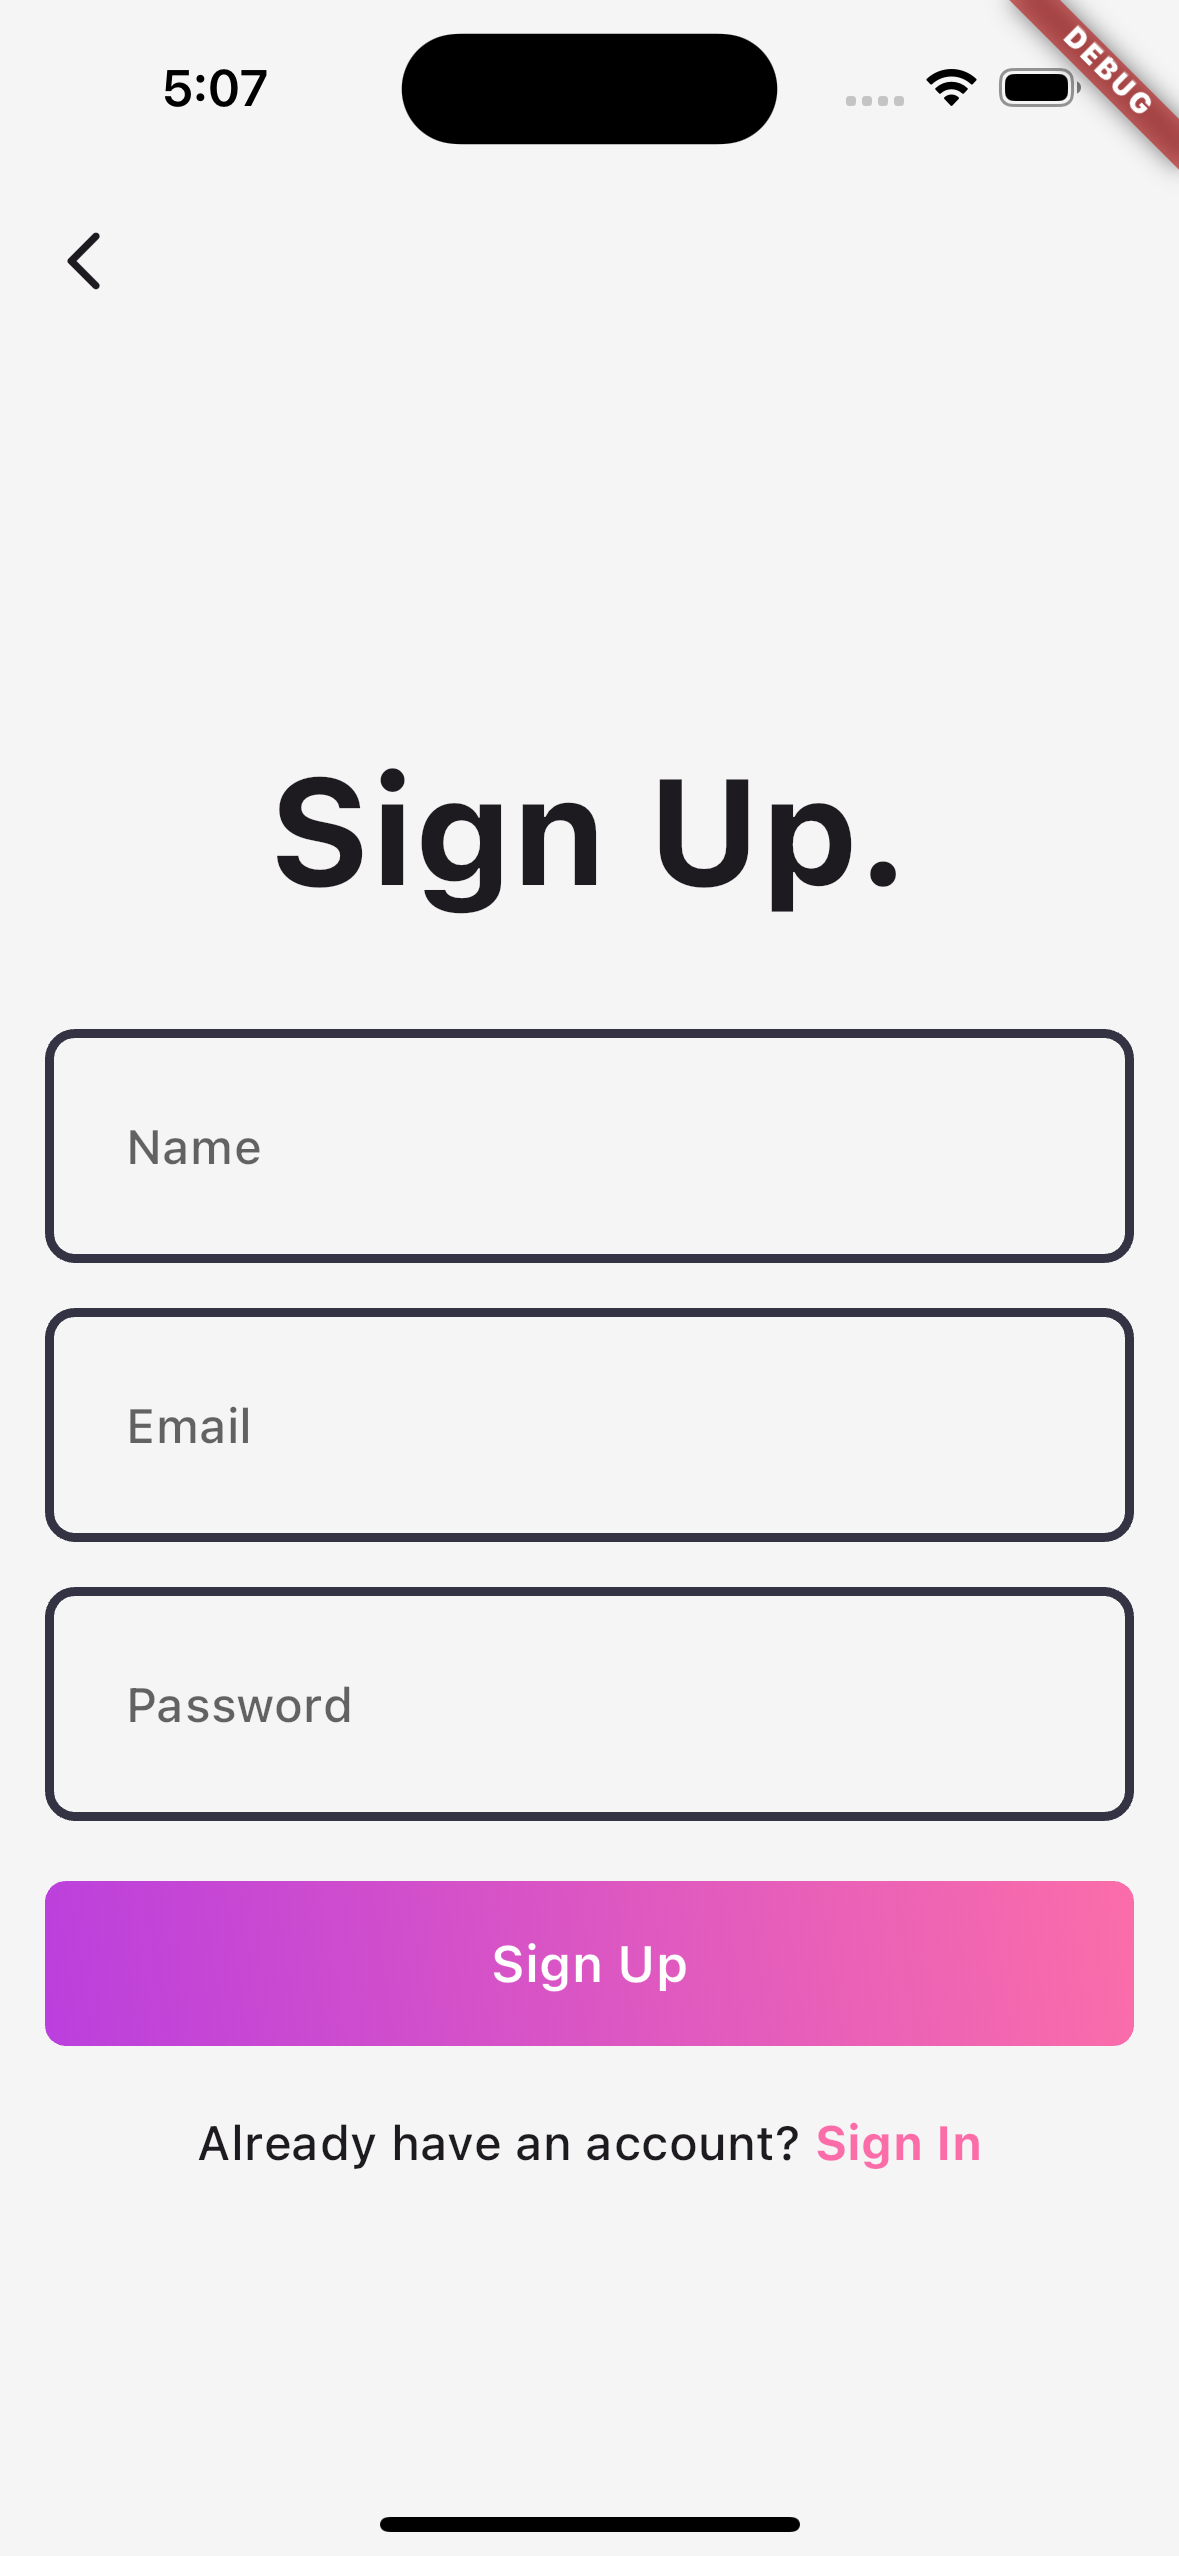
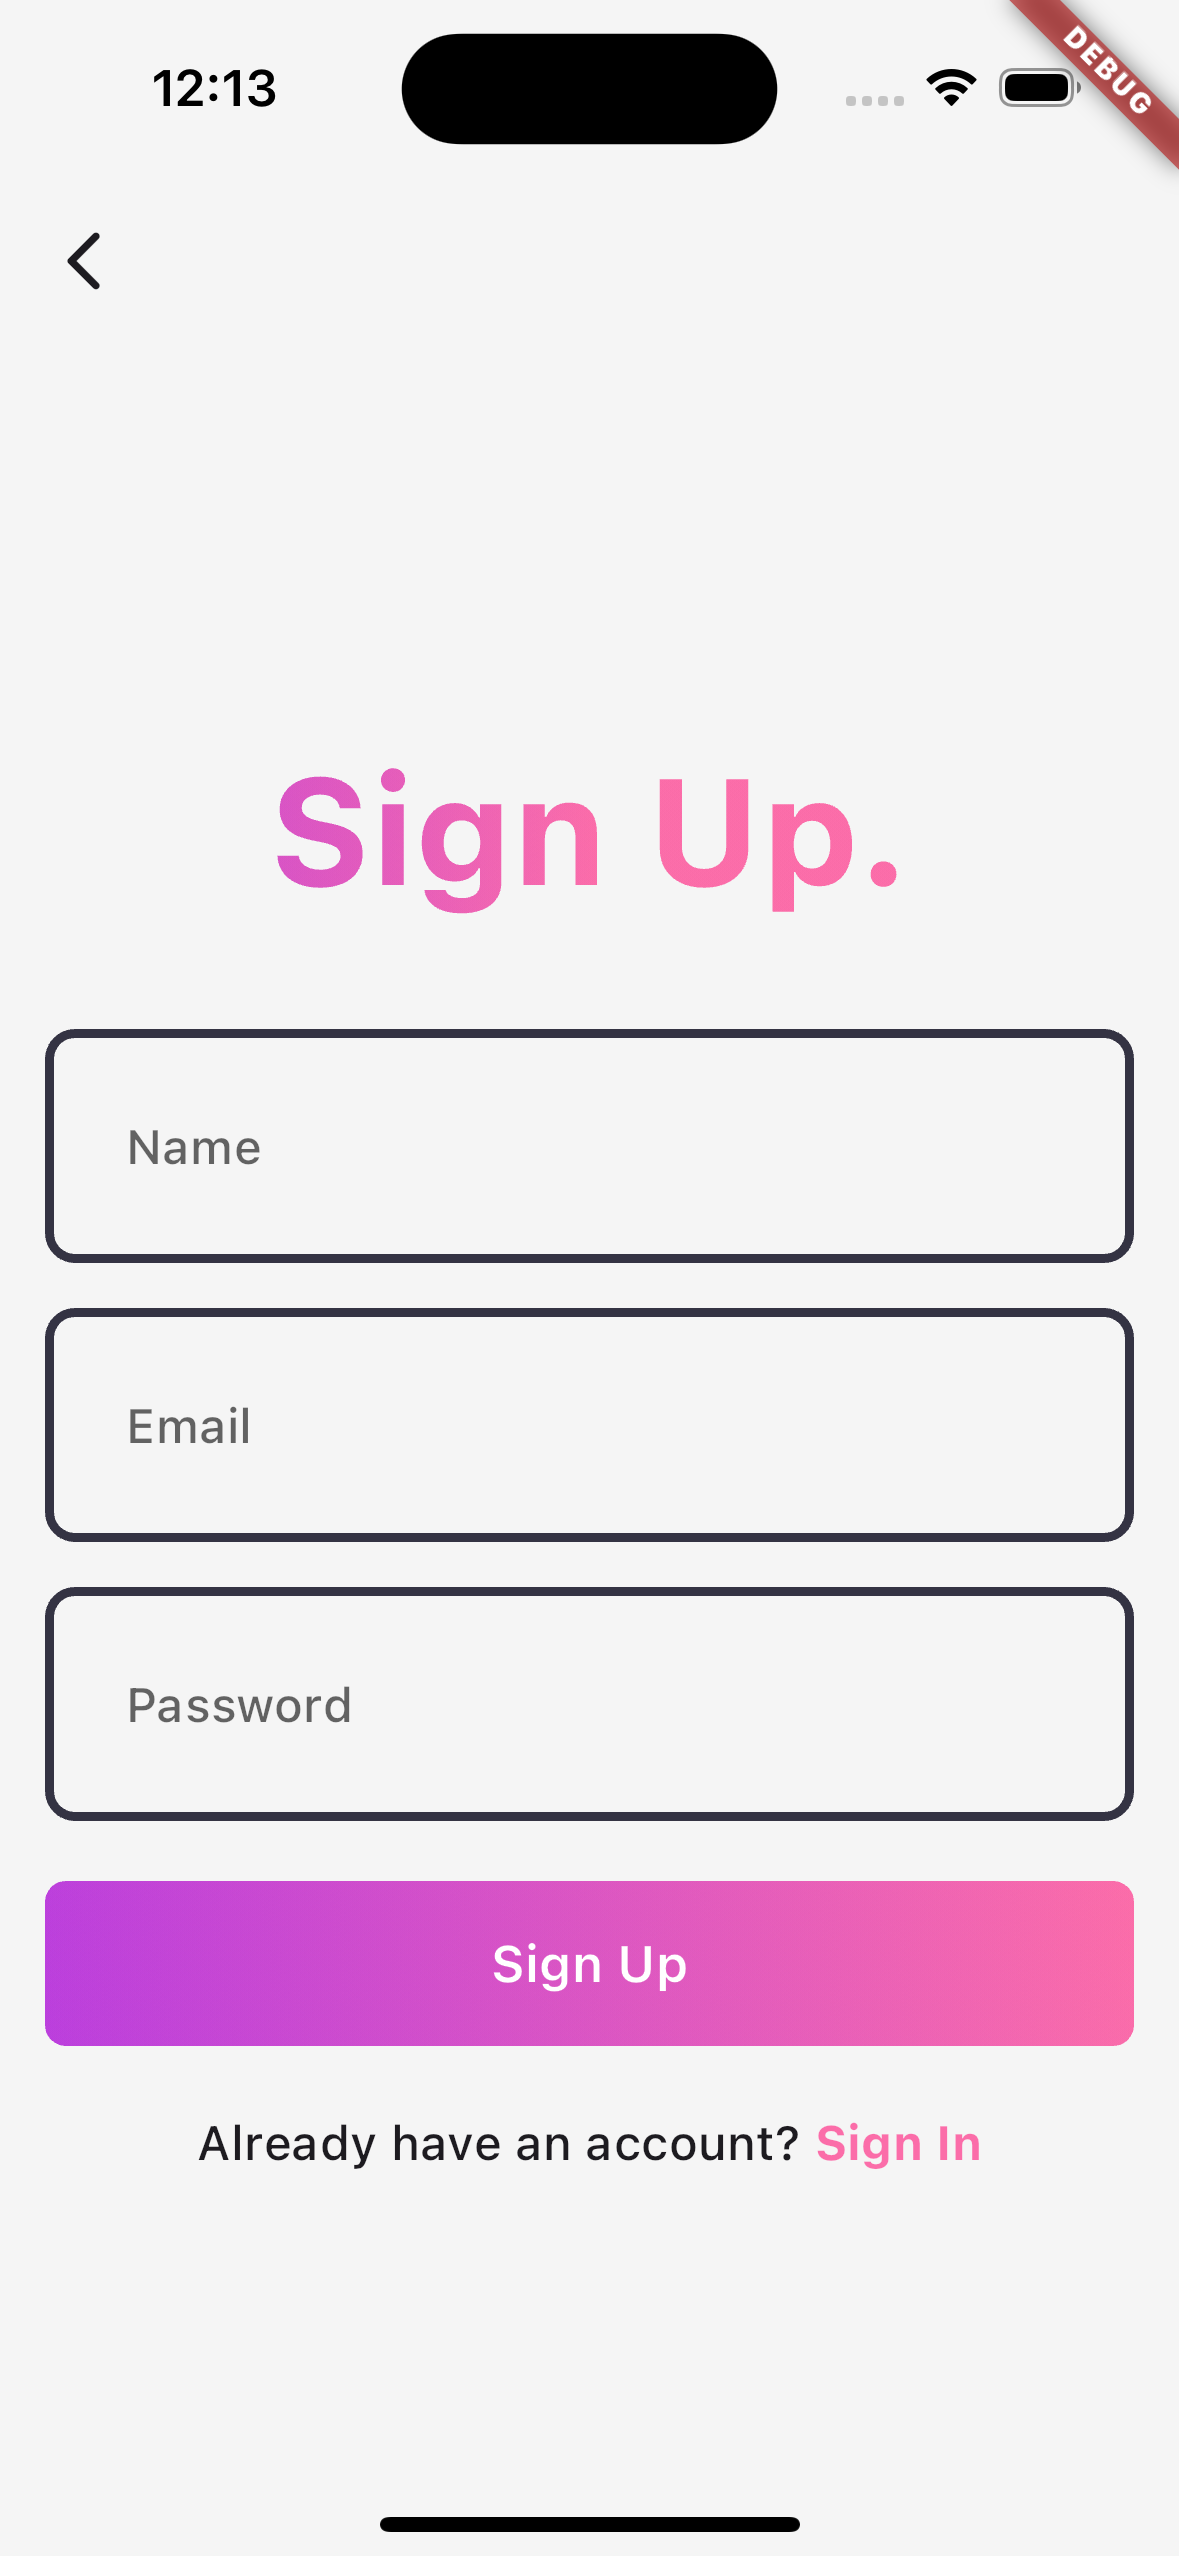
changed app theme

diff --git a/lib/features/blogs/presentation/pages/add_blog_page.dart b/lib/features/blogs/presentation/pages/add_blog_page.dart
@@ -101,15 +101,27 @@ class _AddBlogPageState extends State<AddBlogPage> {
         }
       }
     } else {
+      print('//// Update blog object \n$image');
+      // if (image == null) {
+      //   context.read<BlogBloc>().add(
+      //         BlogUpdateEvent(
+      //           title: titleController.text.trim(),
+      //           content: contentController.text.trim(),
+      //           blogId: widget.blog!.id,
+      //           topics: selectedTopics,
+      //           imageUrl: image!,
+      //         ),
+      //       );
+      // } else {
       context.read<BlogBloc>().add(
             BlogUpdateEvent(
               title: titleController.text.trim(),
               content: contentController.text.trim(),
               blogId: widget.blog!.id,
               topics: selectedTopics,
-              imageUrl: image,
             ),
           );
+      // }
     }
   }
 
@@ -261,25 +273,46 @@ class _AddBlogPageState extends State<AddBlogPage> {
                                     }
                                     setState(() {});
                                   },
-                                  child: Chip(
-                                    label: Text(
-                                      e,
-                                      style: TextStyle(
-                                        color: selectedTopics.contains(e)
-                                            ? AppPallete.whiteColor
+                                  child: Container(
+                                    decoration: BoxDecoration(
+                                        gradient: selectedTopics.contains(e)
+                                            ? const LinearGradient(
+                                                colors: [
+                                                  AppPallete.gradient1,
+                                                  AppPallete.gradient2,
+                                                ],
+                                                begin: Alignment.bottomLeft,
+                                                end: Alignment.topRight,
+                                              )
                                             : null,
+                                        // color: AppPallete.cardColor,
+                                        borderRadius: BorderRadius.circular(10),
+                                        border: !selectedTopics.contains(e)
+                                            ? Border.all(
+                                                color: AppPallete.borderColor)
+                                            : null),
+                                    child: Padding(
+                                      padding: const EdgeInsets.all(10.0)
+                                          .copyWith(top: 5, bottom: 5),
+                                      child: Text(
+                                        e,
+                                        style: TextStyle(
+                                          color: selectedTopics.contains(e)
+                                              ? AppPallete.whiteColor
+                                              : null,
+                                        ),
                                       ),
                                     ),
-                                    color: selectedTopics.contains(e)
-                                        ? MaterialStatePropertyAll(
-                                            AppPallete.chipColor,
-                                          )
-                                        : null,
-                                    side: selectedTopics.contains(e)
-                                        ? null
-                                        : const BorderSide(
-                                            color: AppPallete.borderColor,
-                                          ),
+                                    // color: selectedTopics.contains(e)
+                                    //     ? MaterialStatePropertyAll(
+                                    //         AppPallete.gradient2,
+                                    //       )
+                                    //     : null,
+                                    // side: selectedTopics.contains(e)
+                                    //     ? null
+                                    //     : const BorderSide(
+                                    //         color: AppPallete.borderColor,
+                                    //       ),
                                   ),
                                 ),
                               ),

diff --git a/lib/features/blogs/presentation/widgets/blog_card.dart b/lib/features/blogs/presentation/widgets/blog_card.dart
@@ -18,13 +18,21 @@ class BlogCard extends StatelessWidget {
     return GestureDetector(
       onTap: () => Navigator.push(context, ViewBlogPage.route(userId, blog)),
       child: Container(
-        height: 200,
+        height: 180,
         margin: const EdgeInsets.all(16).copyWith(
           bottom: 4,
         ),
         padding: const EdgeInsets.all(16),
         decoration: BoxDecoration(
-          color: AppPallete.cardColor,
+          gradient: const LinearGradient(
+            colors: [
+              AppPallete.gradient1,
+              AppPallete.gradient2,
+            ],
+            begin: Alignment.bottomLeft,
+            end: Alignment.topRight,
+          ),
+          // color: AppPallete.cardColor,
           borderRadius: BorderRadius.circular(10),
         ),
         child: Column(
@@ -41,17 +49,7 @@ class BlogCard extends StatelessWidget {
                         .map(
                           (e) => Padding(
                             padding: const EdgeInsets.all(5.0),
-                            child: Chip(
-                              label: Text(
-                                e,
-                                style: const TextStyle(
-                                  color: AppPallete.whiteColor,
-                                ),
-                              ),
-                              color: MaterialStatePropertyAll<Color>(
-                                AppPallete.chipColor,
-                              ),
-                            ),
+                            child: Chip(label: Text(e)),
                           ),
                         )
                         .toList(),

diff --git a/lib/features/auth/presentation/pages/signin_page.dart b/lib/features/auth/presentation/pages/signin_page.dart
@@ -10,6 +10,10 @@ import 'package:blogs_app/features/blogs/presentation/pages/blogs_page.dart';
 import 'package:flutter/material.dart';
 import 'package:flutter_bloc/flutter_bloc.dart';
 
+final Shader textGradient = const LinearGradient(
+  colors: <Color>[AppPallete.gradient1, AppPallete.gradient2],
+).createShader(const Rect.fromLTWH(0.0, 0.0, 200.0, 70.0));
+
 class SignInPage extends StatefulWidget {
   static route() => MaterialPageRoute(
         builder: (context) => const SignInPage(),
@@ -45,6 +49,10 @@ class _SignInPageState extends State<SignInPage> {
 
   @override
   Widget build(BuildContext context) {
+    final Shader textGradient = const LinearGradient(
+      colors: <Color>[AppPallete.gradient1, AppPallete.gradient2],
+    ).createShader(const Rect.fromLTWH(0.0, 0.0, 200.0, 70.0));
+
     return Scaffold(
       body: Padding(
         padding: const EdgeInsets.all(15.0),
@@ -69,11 +77,12 @@ class _SignInPageState extends State<SignInPage> {
               child: Column(
                 mainAxisAlignment: MainAxisAlignment.center,
                 children: [
-                  const Text(
+                  Text(
                     'Sign In.',
                     style: TextStyle(
                       fontSize: 50,
                       fontWeight: FontWeight.bold,
+                      foreground: Paint()..shader = textGradient,
                     ),
                   ),
                   const SizedBox(height: 30),

diff --git a/lib/features/auth/presentation/pages/signup_page.dart b/lib/features/auth/presentation/pages/signup_page.dart
@@ -7,6 +7,7 @@ import 'package:blogs_app/features/auth/presentation/widgets/auth_field.dart';
 import 'package:blogs_app/features/auth/presentation/widgets/auth_gradient_button.dart';
 import 'package:blogs_app/features/blogs/presentation/pages/blogs_page.dart';
 import 'package:flutter/material.dart';
+import 'package:flutter/widgets.dart';
 import 'package:flutter_bloc/flutter_bloc.dart';
 
 class SignUpPage extends StatefulWidget {
@@ -61,11 +62,12 @@ class _SignUpPageState extends State<SignUpPage> {
               child: Column(
                 mainAxisAlignment: MainAxisAlignment.center,
                 children: [
-                  const Text(
+                  Text(
                     'Sign Up.',
                     style: TextStyle(
                       fontSize: 50,
                       fontWeight: FontWeight.bold,
+                      foreground: Paint()..shader = textGradient,
                     ),
                   ),
                   const SizedBox(height: 30),

diff --git a/lib/features/blogs/data/datasource/blog_supabase_data_source.dart b/lib/features/blogs/data/datasource/blog_supabase_data_source.dart
@@ -16,7 +16,7 @@ abstract interface class BlogSupabaseDataSource {
     required String blogId,
     String? title,
     String? content,
-    String? imageUrl,
+    // String? imageUrl,
     List<String>? topics,
   });
 
@@ -89,7 +89,7 @@ class BlogSupabaseDataSourceImplementation extends BlogSupabaseDataSource {
   Future<BlogModel> updateBlog({
     String? title,
     String? content,
-    String? imageUrl,
+    // String? imageUrl,
     List<String>? topics,
     required String blogId,
   }) async {
@@ -100,7 +100,7 @@ class BlogSupabaseDataSourceImplementation extends BlogSupabaseDataSource {
             'title': title,
             'content': content,
             'topics': topics,
-            'image_url': imageUrl,
+            // 'image_url': imageUrl,
             'updated_at': DateTime.now().toIso8601String(),
           })
           .eq('id', blogId)

diff --git a/lib/features/blogs/data/repository/blog_repository_impl.dart b/lib/features/blogs/data/repository/blog_repository_impl.dart
@@ -89,16 +89,17 @@ class BlogRepositoryImplementation implements BlogRepository {
         return left(Failure(Constants.noInternetConnectionMessage));
       }
 
-      final uploadImageUrl = await blogSupabaseDataSource.updateBlogImage(
-        blogId: blogId,
-        image: imageUrl!,
-      );
+      // final uploadImageUrl = await blogSupabaseDataSource.updateBlogImage(
+      //   blogId: blogId,
+      //   image: imageUrl!,
+      // );
+
 
       final uploadingBlog = await blogSupabaseDataSource.updateBlog(
         blogId: blogId,
         title: title,
         content: content,
-        imageUrl: uploadImageUrl,
+        // imageUrl: uploadImageUrl,
         topics: topics,
       );
 
